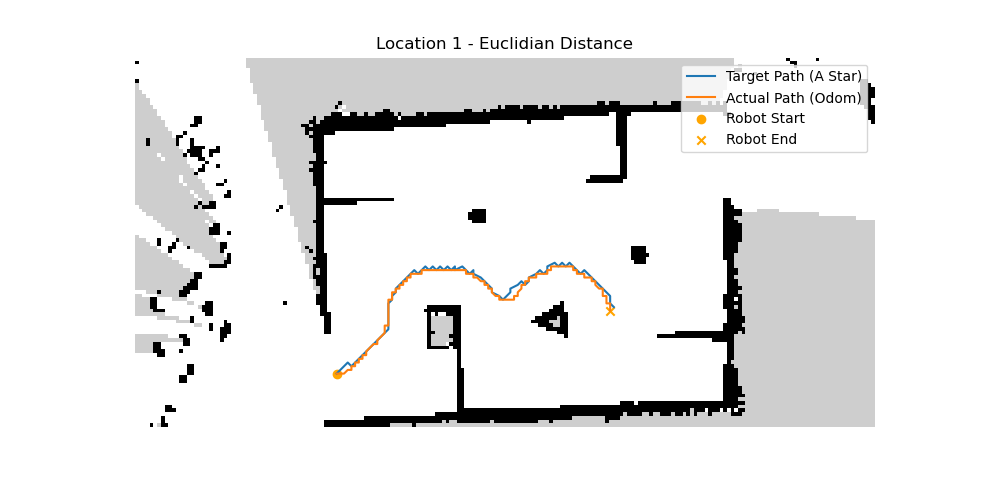
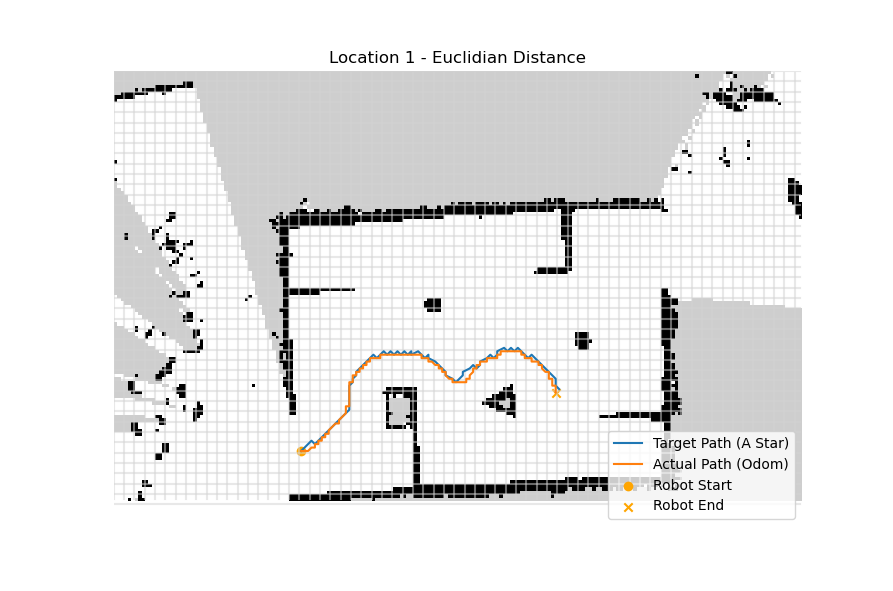
grids

diff --git a/MTE544_student-labFour/mapUtilities.py b/MTE544_student-labFour/mapUtilities.py
@@ -111,8 +111,13 @@ class mapManipulator(Node):
         astar_cell = [self.position_2_cell(p) for p in astar_path]
         odom_cell = [self.position_2_cell(p) for p in odom_path]
 
-        X_MIN = 100
+        X_MIN = 75
         Y_MIN = 75
+
+        for i in range(0, image_array.shape[0]-96, 3):
+            plt.plot([i-0.5 for j in range(100, 225)], [p-100 for p in range(100, 225)], color='lightgray', alpha=0.5, label="_nolegend_")
+        for i in range(0, image_array.shape[1]-200, 3):
+            plt.plot([p-100 for p in range(100, 300)], [i-0.5 for j in range(100, 300)], color='lightgray', alpha=0.5, label="_nolegend_")
 
         # Plot the image
         plt.imshow(image_array[X_MIN:200, Y_MIN:275], cmap='gray')
@@ -125,6 +130,7 @@ class mapManipulator(Node):
         plt.scatter(odom_cell[-1][0]-Y_MIN, odom_cell[-1][1]-X_MIN, color='orange', marker='x')
 
         plt.legend(["Target Path (A Star)", "Actual Path (Odom)", "Robot Start", "Robot End"])
+        plt.grid()
         plt.show()
 
 
@@ -298,7 +304,7 @@ if __name__=="__main__":
 
     MAP_UTILITIS=mapManipulator(args.map, args.std)
 
-    test = "location2-True"
+    test = "location1-True"
     astar_f = "CSVs/" + test + "-astar-path.csv"
     odom_f = "CSVs/" + test + "-robotPose-odom.csv"
 
@@ -316,7 +322,7 @@ if __name__=="__main__":
             l2 = l.split(',')
             odom.append((float(l2[0]), float(l2[1])))
 
-    MAP_UTILITIS.plot_pgm_image(MAP_UTILITIS.image_array, astar, odom, 'Location 2 - Euclidian Distance')
+    MAP_UTILITIS.plot_pgm_image(MAP_UTILITIS.image_array, astar, odom, 'Location 1 - Euclidian Distance')
 
     #rclpy.spin(MAP_UTILITIS)
 
